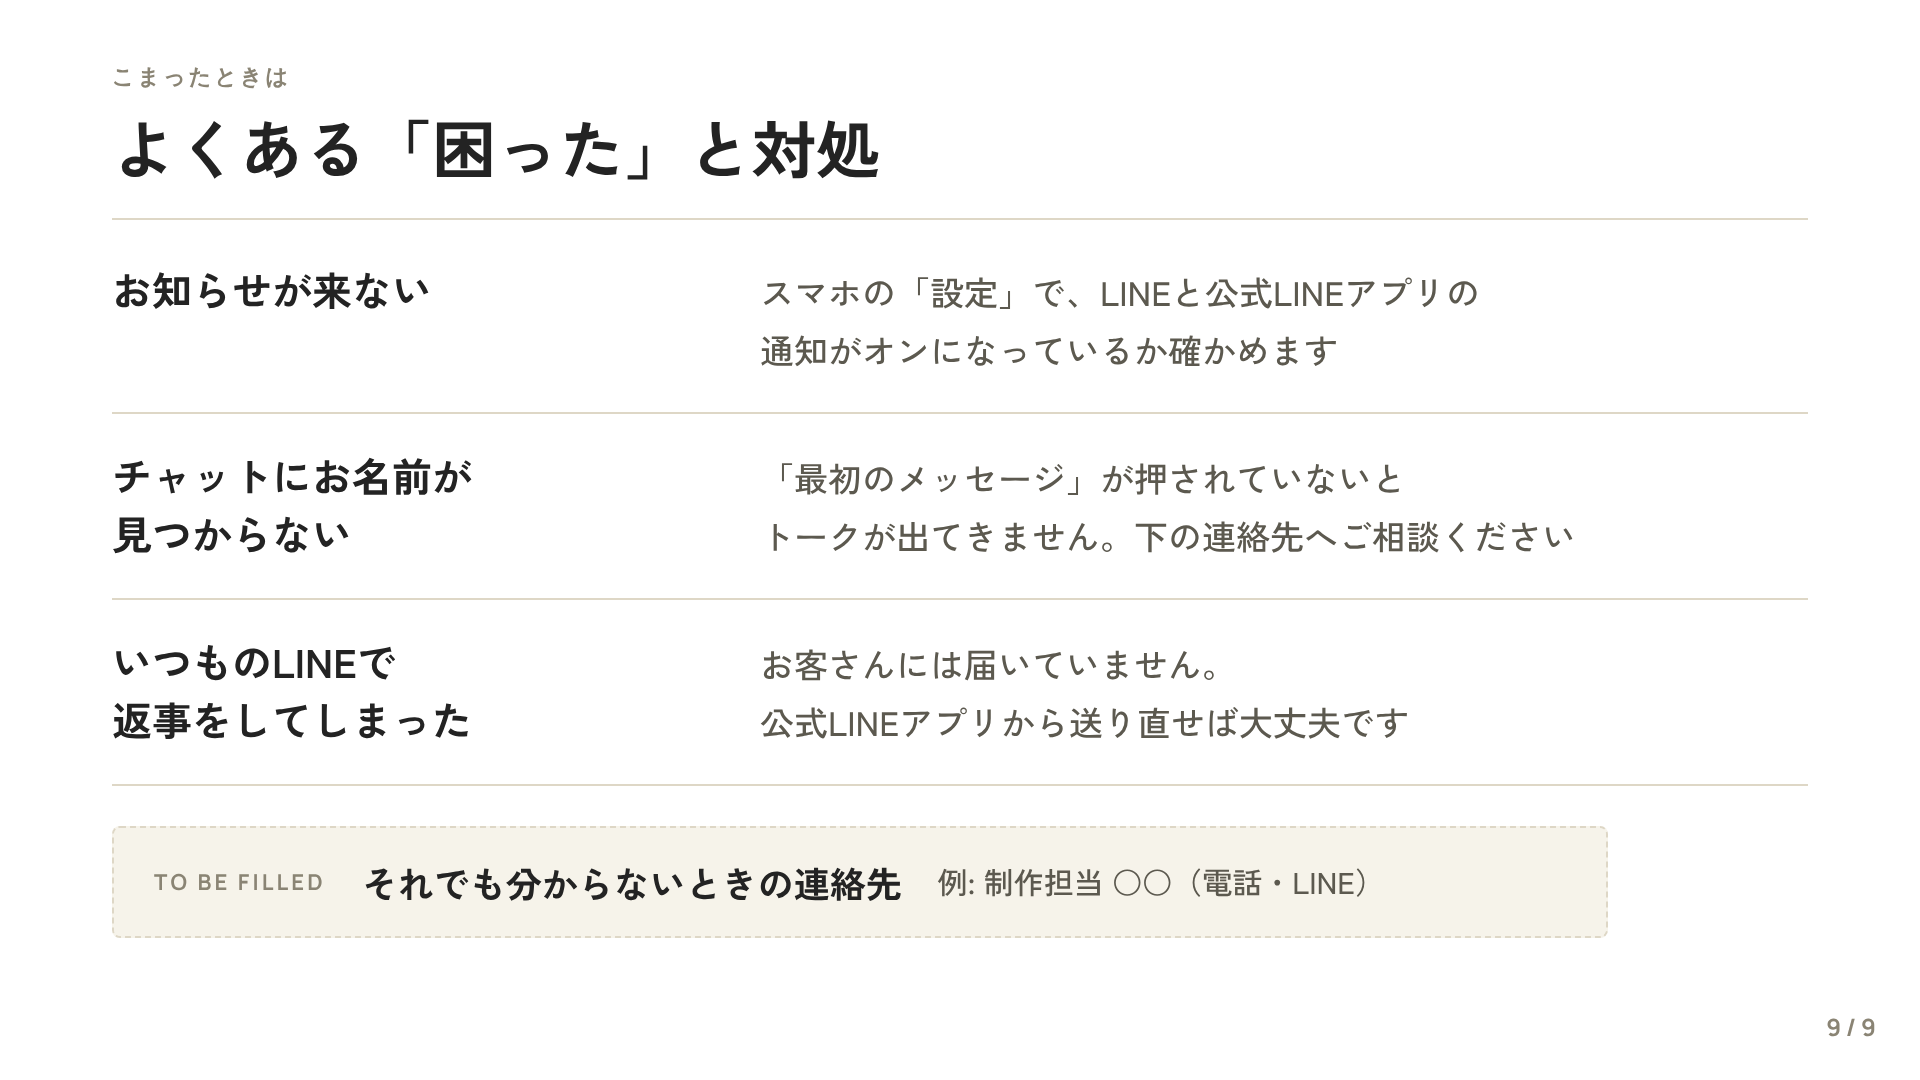
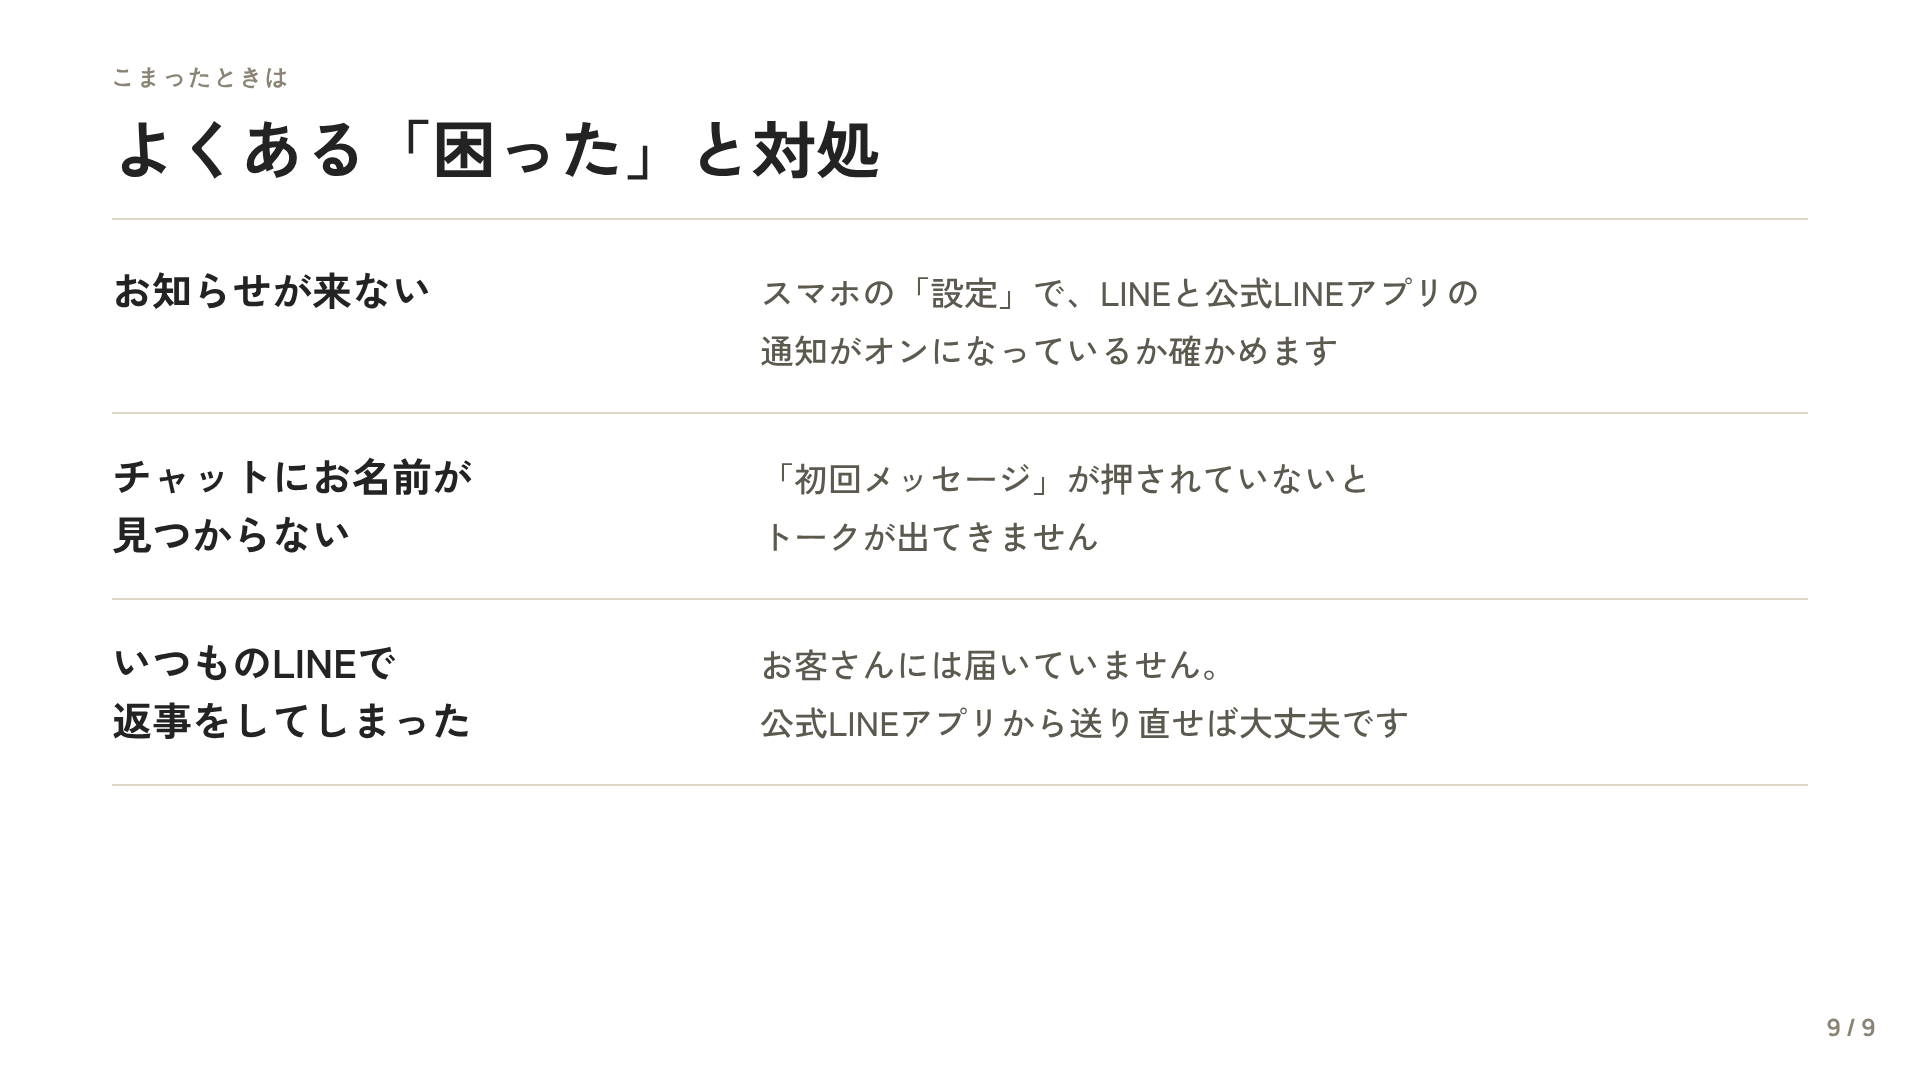
Revise LINE guide wording and remove contact placeholder
Claude-Session: https://claude.ai/code/session_01Mzb1Hx17efy9YKD36c3ttC

diff --git a/slides/line-reply-guide.html b/slides/line-reply-guide.html
@@ -138,9 +138,9 @@
       <div style="grid-column:3;grid-row:1;font-size:15px;color:var(--accent-deep)">先生（スマホ）</div>
 
       <div style="grid-column:1;grid-row:2;background:var(--surface);border:1px solid var(--line);border-radius:var(--radius);display:flex;align-items:center;gap:10px;padding:0 14px"><span style="font-family:var(--ff-en);color:var(--dim)">A</span>教室の公式LINEを友だち追加</div>
-      <div style="grid-column:1;grid-row:3;background:var(--surface);border:1px solid var(--line);border-radius:var(--radius);display:flex;align-items:center;gap:10px;padding:0 14px"><span style="font-family:var(--ff-en);color:var(--dim)">B</span>メニュー「最初のメッセージ」を押す</div>
+      <div style="grid-column:1;grid-row:3;background:var(--surface);border:1px solid var(--line);border-radius:var(--radius);display:flex;align-items:center;gap:10px;padding:0 14px"><span style="font-family:var(--ff-en);color:var(--dim)">B</span>メニュー「初回メッセージ」を押す</div>
       <div style="grid-column:1;grid-row:4;background:var(--surface);border:1px solid var(--line);border-radius:var(--radius);display:flex;align-items:center;gap:10px;padding:0 14px"><span style="font-family:var(--ff-en);color:var(--dim)">C</span>メニュー「体験申込み」を押す</div>
-      <div style="grid-column:1;grid-row:5;background:var(--surface);border:1px solid var(--line);border-radius:var(--radius);display:flex;align-items:center;gap:10px;padding:0 14px"><span style="font-family:var(--ff-en);color:var(--dim)">D</span>申込みフォームに書いて送る</div>
+      <div style="grid-column:1;grid-row:5;background:var(--surface);border:1px solid var(--line);border-radius:var(--radius);display:flex;align-items:center;gap:10px;padding:0 14px"><span style="font-family:var(--ff-en);color:var(--dim)">D</span>申込みフォームにて送信する</div>
 
       <div style="grid-column:2;grid-row:5;display:flex;flex-direction:column;align-items:center;justify-content:center;color:var(--accent-deep);line-height:1.1">
         <span style="font-size:13px">申込みが届く</span><span style="font-size:22px">→</span>
@@ -163,7 +163,7 @@
   <div class="hd"><div class="ki">参考 ／ お客さんの画面</div><h2>お客さんのスマホでの見え方</h2><div class="rule"></div></div>
   <div class="bd" style="gap:36px;align-items:center;justify-content:center;padding-top:12px">
     <div class="ann" style="width:270px">
-      <div class="it"><span class="no">1</span><div><div class="t">まず<br>「最初のメッセージ」</div><div class="d">押すと教室にひとこと届き<br>先生とやりとりできる<br>ようになります</div></div></div>
+      <div class="it"><span class="no">1</span><div><div class="t">まず<br>「初回メッセージ」</div><div class="d">押すと教室にひとこと届き<br>先生とやりとりできる<br>ようになります</div></div></div>
     </div>
     <div style="display:flex;flex-direction:column;align-items:center">
       <div class="phone"><div class="scr" data-swap="screens/04-customer.png">
@@ -171,10 +171,10 @@
         <div class="scr-hd">大館 からだの調律時間</div>
         <div class="chat">
           <div class="bub">友だち追加ありがとうございます。下のメニューからどうぞ。</div>
-          <div class="bub me">よろしくお願いします</div>
+          <div class="bub me">初回メッセージです。</div>
         </div>
         <div style="display:grid;grid-template-columns:1fr 1fr;height:84px;border-top:1px solid var(--line)">
-          <div style="display:flex;align-items:center;justify-content:center;text-align:center;font-weight:700;font-size:12px;line-height:1.4;border-right:1px solid var(--line);background:var(--accent-tint)">最初の<br>メッセージ</div>
+          <div style="display:flex;align-items:center;justify-content:center;text-align:center;font-weight:700;font-size:12px;line-height:1.4;border-right:1px solid var(--line);background:var(--accent-tint)">初回<br>メッセージ</div>
           <div style="display:flex;align-items:center;justify-content:center;text-align:center;font-weight:700;font-size:12px;line-height:1.4">体験<br>申込み</div>
         </div>
         <span class="no sm tag" style="bottom:58px;left:6px">1</span>
@@ -258,7 +258,7 @@
         <div style="flex:1;display:flex;flex-direction:column">
           <div style="display:flex;gap:8px;align-items:center;padding:10px;border-bottom:1px solid var(--line);background:var(--accent-tint)">
             <span style="width:30px;height:30px;border-radius:50%;background:var(--line);flex:none"></span>
-            <div style="flex:1;min-width:0"><div style="font-weight:700;font-size:12px">はなこ</div><div style="color:var(--sub);font-size:12px;line-height:1.4">よろしくお願いします</div></div>
+            <div style="flex:1;min-width:0"><div style="font-weight:700;font-size:12px">はなこ</div><div style="color:var(--sub);font-size:12px;line-height:1.4">初回メッセージです。</div></div>
           </div>
           <div style="display:flex;gap:8px;align-items:center;padding:10px;border-bottom:1px solid var(--line)"><span style="width:30px;height:30px;border-radius:50%;background:var(--line);flex:none"></span><div style="flex:1"><div style="height:8px;width:55%;background:var(--line);border-radius:var(--radius)"></div><div style="height:8px;width:80%;background:var(--line);border-radius:var(--radius);margin-top:6px"></div></div></div>
           <div style="display:flex;gap:8px;align-items:center;padding:10px;border-bottom:1px solid var(--line)"><span style="width:30px;height:30px;border-radius:50%;background:var(--line);flex:none"></span><div style="flex:1"><div style="height:8px;width:45%;background:var(--line);border-radius:var(--radius)"></div><div style="height:8px;width:70%;background:var(--line);border-radius:var(--radius);margin-top:6px"></div></div></div>
@@ -275,7 +275,7 @@
       <div class="demo">※ 画面はイメージです</div>
     </div>
     <div class="ann" style="width:270px">
-      <div class="it"><span class="no">3</span><div><div class="t">「最初のメッセージ」が<br>目じるし</div><div class="d">「よろしくお願いします」<br>などのひとことが見えます</div></div></div>
+      <div class="it"><span class="no">3</span><div><div class="t">「初回メッセージ」が<br>目じるし</div><div class="d">「初回メッセージです。」<br>と書かれています</div></div></div>
     </div>
   </div>
   <div class="pn">7 / 9</div>
@@ -294,7 +294,7 @@
         <div class="bar"></div>
         <div class="scr-hd">はなこ</div>
         <div class="chat">
-          <div class="bub">よろしくお願いします</div>
+          <div class="bub">初回メッセージです。</div>
           <div class="bub me">体験のお申込みありがとうございます。木曜のクラスで…</div>
         </div>
         <div style="height:46px;border-top:1px solid var(--line);display:flex;align-items:center;gap:6px;padding:0 8px">
@@ -325,16 +325,11 @@
     </div>
     <div style="display:grid;grid-template-columns:300px 1fr;gap:24px;padding:16px 0;border-bottom:1px solid var(--line);align-items:baseline">
       <div style="font-size:20px;font-weight:700">チャットにお名前が<br>見つからない</div>
-      <div style="font-size:17px;line-height:1.7;color:var(--sub)">「最初のメッセージ」が押されていないと<br>トークが出てきません。下の連絡先へご相談ください</div>
+      <div style="font-size:17px;line-height:1.7;color:var(--sub)">「初回メッセージ」が押されていないと<br>トークが出てきません</div>
     </div>
     <div style="display:grid;grid-template-columns:300px 1fr;gap:24px;padding:16px 0;border-bottom:1px solid var(--line);align-items:baseline">
       <div style="font-size:20px;font-weight:700">いつものLINEで<br>返事をしてしまった</div>
       <div style="font-size:17px;line-height:1.7;color:var(--sub)">お客さんには届いていません。<br>公式LINEアプリから送り直せば大丈夫です</div>
-    </div>
-    <div style="margin-top:20px;margin-right:100px;border:1px dashed var(--line);border-radius:var(--radius);padding:14px 20px;background:var(--bg);display:flex;gap:18px;align-items:center">
-      <div style="font-family:var(--ff-en);font-size:11px;letter-spacing:.14em;color:var(--dim)">TO BE FILLED</div>
-      <div style="font-size:18px;font-weight:700">それでも分からないときの連絡先</div>
-      <div style="font-size:15px;color:var(--sub)">例: 制作担当 ○○（電話・LINE）</div>
     </div>
   </div>
   <div class="pn">9 / 9</div>
